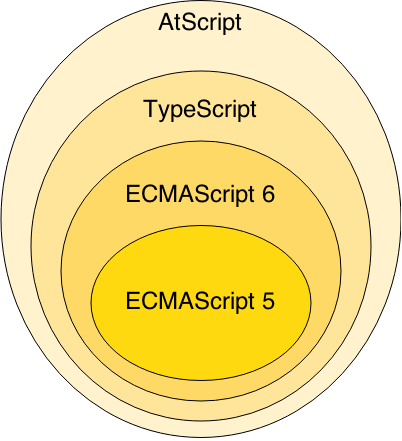
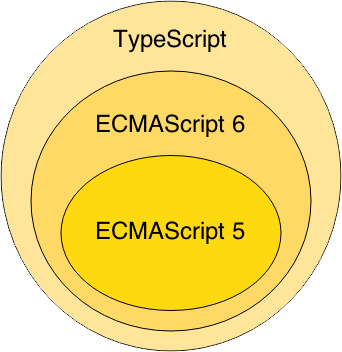
Update draft

diff --git a/_drafts/angular2-first-impressions.md b/_drafts/angular2-first-impressions.md
@@ -19,7 +19,7 @@ In this blog post I'll share my first impressions of the framework and I'll try 
 
 ## Written in TypeScript
 
-As Microsoft already published, [AngularJS 2.0 is written in extended version of TypeScript, called AtScript](http://blogs.msdn.com/b/typescript/archive/2015/03/05/angular-2-0-built-on-typescript.aspx). There are a couple of advantages using strongly typed language and a couple of more advantages using exactly TypeScript. By "extended version of TypeScript" I mean, TypeScript with added annotations (similar to the annotations in Java).
+As Microsoft already published, [AngularJS 2.0 is written in TypeScript](http://blogs.msdn.com/b/typescript/archive/2015/03/05/angular-2-0-built-on-typescript.aspx). There are a couple of advantages using strongly typed language and a couple of more advantages using exactly TypeScript. By "extended version of TypeScript" I mean, TypeScript with added annotations (similar to the annotations in Java).
 
 ![JavaScript Dialects](/images/js-dialects-ven.png)
 
@@ -30,7 +30,7 @@ And here are some of the main advantages using TypeScript as statically typed la
   - You get better auto-completion by the text editors and IDEs. [WebStorm 10 supports TypeScript 1.5 + decorators and ES6 modules](https://www.jetbrains.com/webstorm/whatsnew/). For vim you can use the [typescript-tools](https://github.com/clausreinke/typescript-tools), which could be integrated with EMACS and SublimeText. You will get hints for method names, parameters, parameters types by your editor/IDE for each AngularJS method (yes, with Tern.js or Flow you can get the same experience but based on JSDoc or some very sophisticated decisions based on the AST of your code, now it'll be much less tricky).
   - The JavaScript VM is able to make better code optimizations. Since when we define that given property/variable has specific type we sign some kind of contract with the JavaScript VM, this way it is much easier for it to reason about the types of the variables, which are being used and to do better run-time optimizations ([for instance](https://github.com/sq/JSIL/wiki/Optimizing-dynamic-JavaScript-with-inline-caches)).
 - About TypeScript:
-  - TypeScript is superset of ES6, which is superset of ES5 (ES5 ⊆ ES6 ⊆ TypeScript ⊆ AtScript). AngularJS 2.0 production build is being transpiled to ES5 in order to be executable by the modern browsers. You also can chose whether you want to write your code in ES5, ES6, TypeScript or AtScript (of course if you chose ES6, TypeScript or AtScript your code should go through a process of compilation in order to be transpiled).
+  - TypeScript is superset of ES6, which is superset of ES5 (ES5 ⊆ ES6 ⊆ TypeScript). AngularJS 2.0 production build is being transpiled to ES5 in order to be executable by the modern browsers. You also can chose whether you want to write your code in ES5, ES6, TypeScript (of course if you chose ES6, TypeScript your code should go through a process of compilation in order to be transpiled).
   - TypeScript is being one of the best languages, which are being transpiled to JavaScript, which has allows optional type checking.
   - TypeScript is developed and supported by Microsoft, which gives us stability that it is unlikely the support to be dropped unexpectedly.
 
@@ -45,9 +45,14 @@ It is not necessary but I'd recommend you to do so, because of all the benefits 
 *How can I take advantage of it? Should I use Visual Studio or something?*<br>
 No. You can use the [traceur compiler](https://github.com/google/traceur-compiler) and a task runner, like gulp or grunt, with the corresponding plugins ([here](https://github.com/sindresorhus/gulp-traceur) and [here](https://github.com/aaronfrost/grunt-traceur)).
 
+*What is this thing called AtScript I've heard of?*<br>
+
+<blockquote class="twitter-tweet" lang="en"><p>AtScript is Typescript <a href="https://twitter.com/hashtag/ngconf?src=hash">#ngconf</a></p>&mdash; ng-conf (@ngconf) <a href="https://twitter.com/ngconf/status/573521849780305920">March 5, 2015</a></blockquote>
+<script async src="//platform.twitter.com/widgets.js" charset="utf-8"></script>
+
 ### Further reading
 
-Since I wasn't complete enough in my explanation of AtScript because this isn't the goal of this article, you can [read more about the language here.](https://docs.google.com/document/d/11YUzC-1d0V1-Q3V0fQ7KSit97HnZoKVygDxpWzEYW0U/edit)
+You can read further details about the language constructs added in TypeScript (previously called AtScript because of some missing syntax) [here](https://docs.google.com/document/d/11YUzC-1d0V1-Q3V0fQ7KSit97HnZoKVygDxpWzEYW0U/edit).
 
 ## AngularJS 2.0 has no Controllers
 
